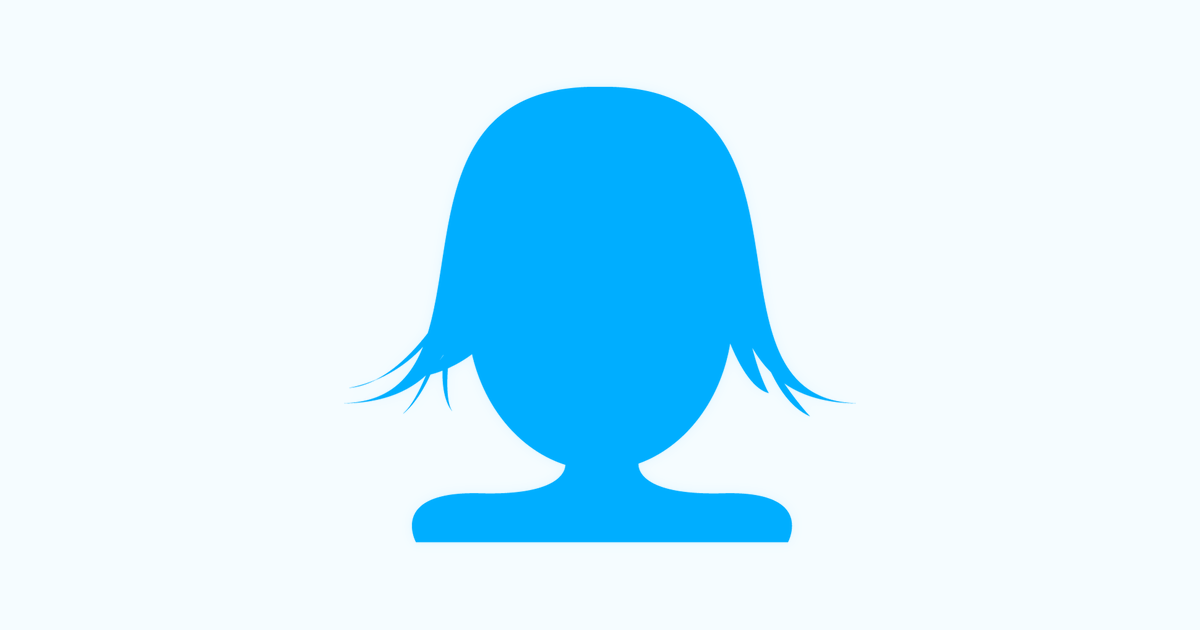
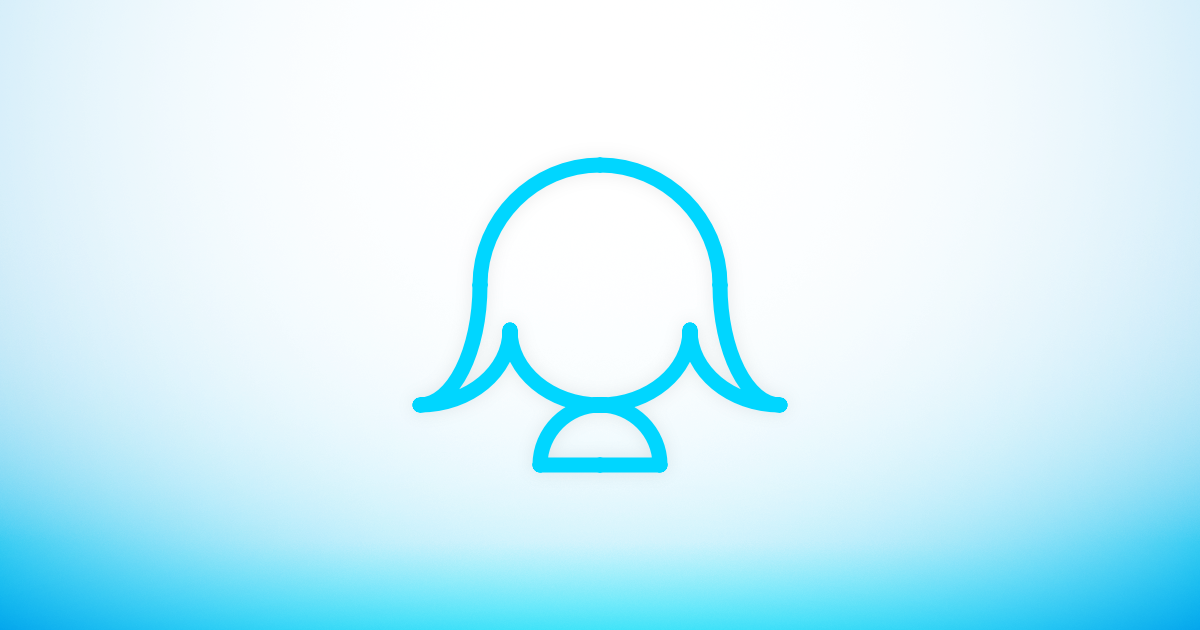
new branding

diff --git a/pages/_document.js b/pages/_document.js
@@ -13,6 +13,7 @@ class MyDocument extends Document {
         <Head>
           <link rel='apple-touch-icon' href='/static/apple-touch-icon.png' />
           <link rel='icon' href='/static/favicon.ico' />
+          <link rel='mask-icon' sizes='any' href='/static/mask-icon.svg' color='#00d6ff' />
           <meta charSet='utf-8' />
           <meta name='keywords' content='melkat, melanie, kat' />
           <meta name='viewport' content='initial-scale=1.0, width=device-width' />
